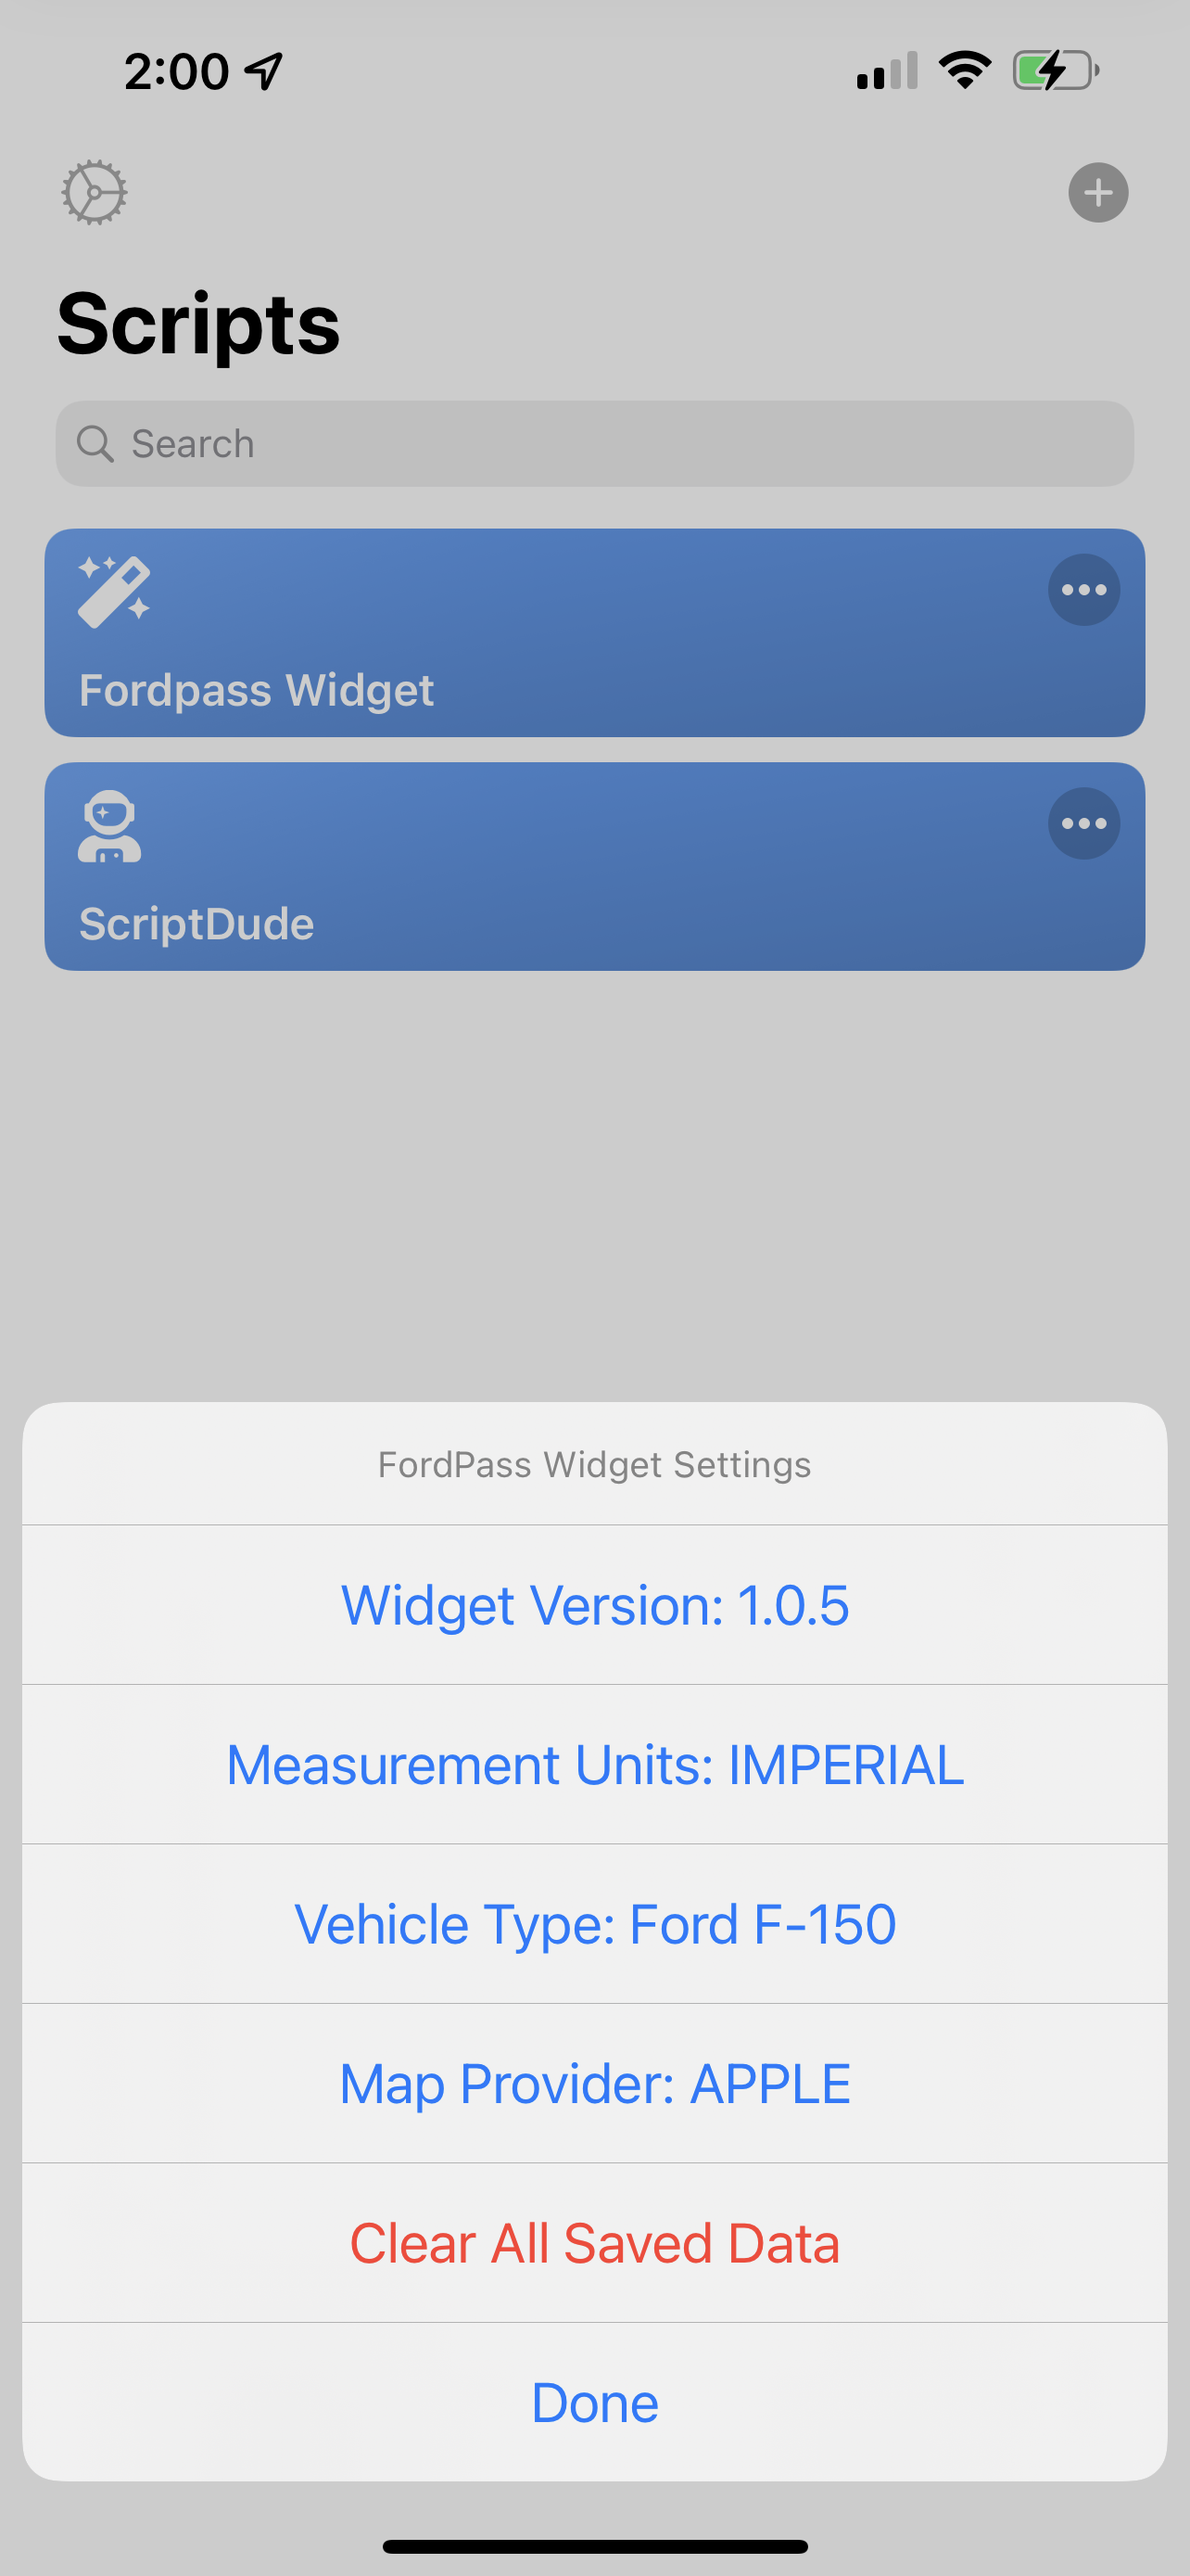
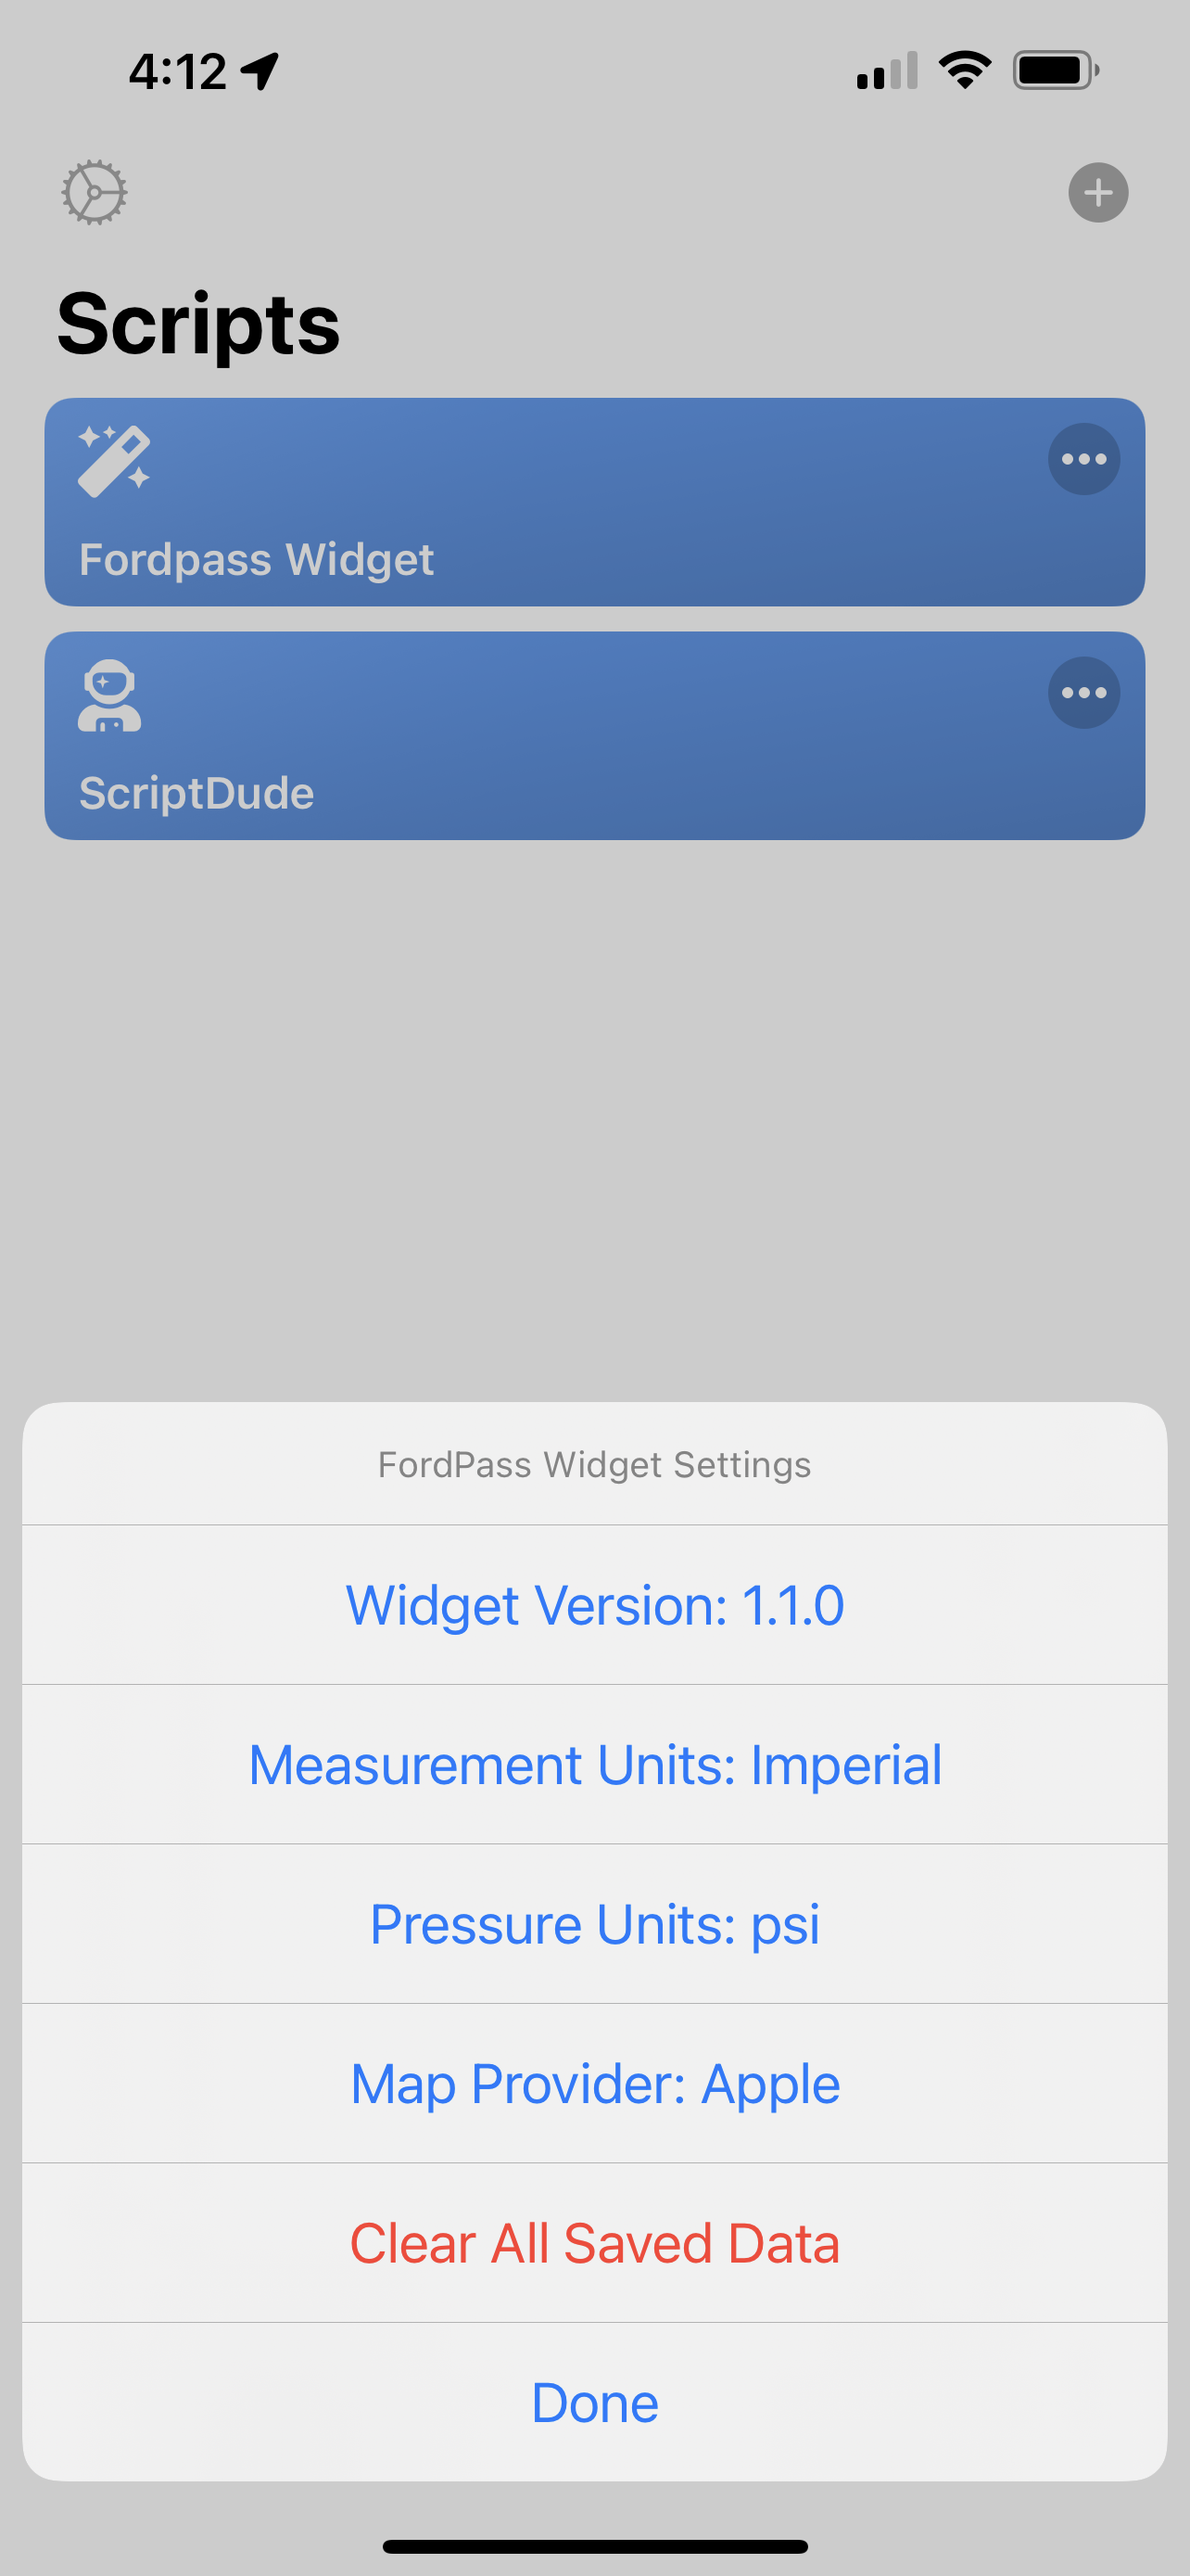
v1.1.0

diff --git a/README.md b/README.md
@@ -27,16 +27,17 @@ The widget has been tested on my 2021 F-150 and another users 2020 Explorer, but
 - Will automatically fetch data from server (default every 5 minutes)
 - Tapping on the Vehicle location in the widget will open Apple Maps (or Google Maps) pin the position of your vehicle.
 - Tapping anywhere in the widget will open the scriptable app and provide a menu of quick actions for your vehicle
+- Automatically pulls in you vehicle image and displays it in the widget.
+  
   
   <img src="images/main_menu_example.png" alt="Menu example" width="300" />
+   <img src="images/advanced_control_menu.png" alt="Menu example" width="300" />
   <img src="images/setting_menu.png" alt="Menu example" width="300" />
-  <img src="images/vehicle_types.png" alt="Menu example" width="300" />
+ 
   
 ## Todo
 
-
 - Add customizable refresh intervals in the settings
-- Add more granular view of available vehicle controls based on capabilities (I only filter out zone-lighting at the moment)
 - Get SecuriAlert control working.
 - Widget code updater mechanism (I don't have a way to do this yet)
 - Better support for electric vehicles (Don´t have one test with yet!!)
@@ -59,6 +60,13 @@ For easy maintenance of the script I recommend just saving the Fordpass Widget.j
 ## Notes
  
 Sometimes the fuel data will be missing or incorrect. This is due to the fact that the fuel data is not always available in the Fordpass API.
+
+## Troubleshooting and Debugging
+
+The easiest way to edit the code and see the results in realtime is to use iCloud on your computer. On windows it requires installing the [iCloud Drive](https://www.icloud.com/drive/).
+
+If you browse to the iCloud Drive folder look for the Scriptable folder and you will see all the scripts you have in the app.  Just edit the Fordpass Widget.js file and save it and within a few seconds it will be updated in the Scriptable app which you will need to tap the 3 dots on the widget in the app.  You have to exit the editor view in the scripable app after each external code change.
+Then just hit the play symbol to run the code in the app.
 
 ## Credits
 
